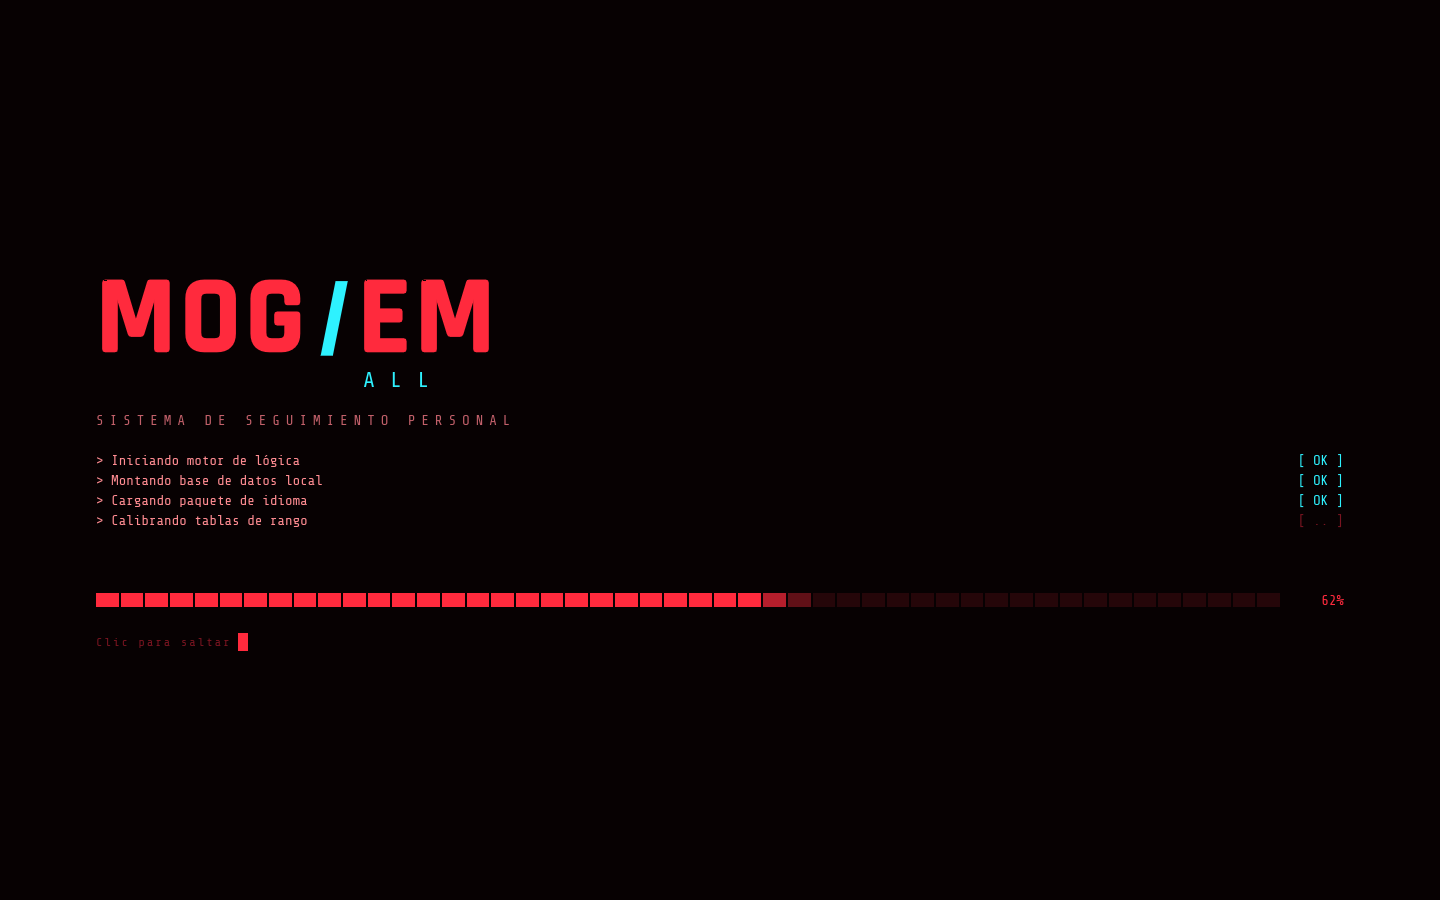
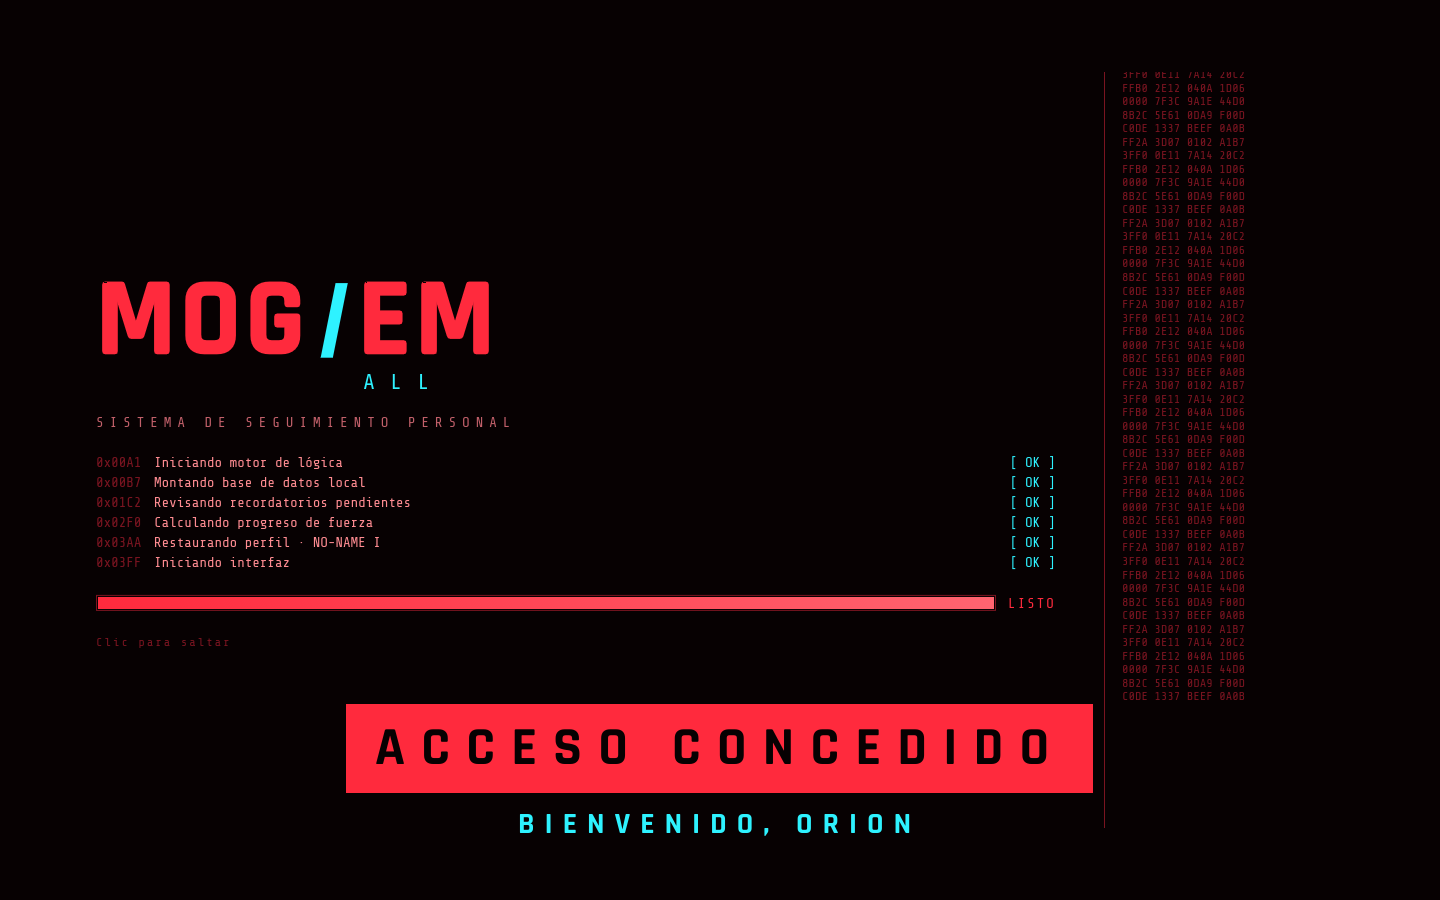
docs: document divisions and refresh demo media

diff --git a/docs/RANKS.md b/docs/RANKS.md
@@ -34,15 +34,27 @@ XP total para llegar al nivel `n`: `100 × (n − 1)^1,5`, con un máximo de 100
 
 ## Rangos de operador
 
-| Niveles | Rango |
-|---|---|
-| 1–9 | Chatarra |
-| 10–19 | Recluta |
-| 20–34 | Operador |
-| 35–49 | Mercenario |
-| 50–69 | Veterano |
-| 70–89 | Élite |
-| 90–100 | Leyenda |
+Cada rango se divide en tres divisiones (I, II y III, de menor a mayor). Los niveles del rango se reparten en tres tramos lo más parejos posible.
+
+| Niveles | Rango | Empieza la división II | Empieza la división III |
+|---|---|---|---|
+| 1–9 | No-Name | 4 | 7 |
+| 10–19 | Principiante | 14 | 17 |
+| 20–34 | Selfhater | 25 | 30 |
+| 35–49 | Insane | 40 | 45 |
+| 50–69 | Chad | 57 | 64 |
+| 70–89 | Mogger | 77 | 84 |
+| 90–100 | Psycho Mogger | 94 | 98 |
+
+En la interfaz, los galones de la insignia se encienden según la división: uno en I, dos en II y tres en III.
+
+## Animaciones
+
+Solo terminar entrenamientos da XP de nivel; las tareas tienen su propia animación pero no suben el nivel.
+
+- Subir de nivel: pantalla propia al terminar la sesión, con el detalle de la XP ganada.
+- Pasar de división: versión corta de la animación del rango.
+- Llegar a un rango nuevo: animación completa, distinta para cada rango.
 
 ## Clase de fuerza
 

diff --git a/README.en.md b/README.en.md
@@ -88,7 +88,7 @@ Commands work in English or Spanish. Case and accents don't matter.
 
 ### Ranks
 
-There are two separate measures. Your level goes up with XP from training regularly; since it measures effort, you can compete with friends even if your bodies are very different. Strength class is per lift and depends on how much you lift relative to your bodyweight. Levels are grouped into seven ranks, from Scrap to Legend. Formulas and tables are in [docs/RANKS.md](docs/RANKS.md) (in Spanish).
+There are two separate measures. Your level goes up with XP from training regularly; since it measures effort, you can compete with friends even if your bodies are very different. Strength class is per lift and depends on how much you lift relative to your bodyweight. Levels are grouped into seven ranks, from No-Name to Psycho Mogger, and each rank has three divisions (I, II and III). Formulas and tables are in [docs/RANKS.md](docs/RANKS.md) (in Spanish).
 
 ## Roadmap
 

diff --git a/README.md b/README.md
@@ -88,7 +88,7 @@ Se pueden escribir en español o en inglés. Las mayúsculas y las tildes no imp
 
 ### Rangos
 
-Hay dos medidas separadas. El nivel sube con XP por entrenar seguido, y como mide esfuerzo sirve para competir con amigos aunque tengan cuerpos distintos. La clase de fuerza va por ejercicio y depende de cuánto levantas en relación con tu peso. Los niveles se agrupan en siete rangos, de Chatarra a Leyenda. Las fórmulas y tablas están en [docs/RANKS.md](docs/RANKS.md).
+Hay dos medidas separadas. El nivel sube con XP por entrenar seguido, y como mide esfuerzo sirve para competir con amigos aunque tengan cuerpos distintos. La clase de fuerza va por ejercicio y depende de cuánto levantas en relación con tu peso. Los niveles se agrupan en siete rangos, de No-Name a Psycho Mogger, y cada rango tiene tres divisiones (I, II y III). Las fórmulas y tablas están en [docs/RANKS.md](docs/RANKS.md).
 
 ## Hoja de ruta
 

diff --git a/CHANGELOG.md b/CHANGELOG.md
@@ -16,3 +16,5 @@ Formato basado en [Keep a Changelog](https://keepachangelog.com/es-ES/1.1.0/). E
 - Logotipo animado "MOG / EM ALL" con el apóstrofo como corte diagonal, en la pantalla de carga y la barra superior.
 - Línea de comandos en español o inglés: `ir <módulo>`, `imc <kg> <cm>`, `idioma es|en`, `ayuda`. La tecla `/` la enfoca.
 - Reloj con fecha en la barra superior e ícono de ventana.
+- Rangos nuevos (No-Name, Principiante, Selfhater, Insane, Chad, Mogger y Psycho Mogger), cada uno con divisiones I, II y III. Los galones de la insignia muestran la división.
+- Pantalla de carga nueva: registro con direcciones, columna hexadecimal, "ACCESO CONCEDIDO" y saludo con tu nombre.
